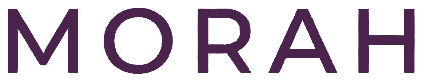
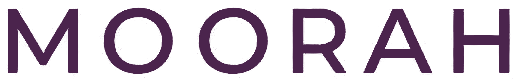
Rebranding: Morah -> Moorah em textos visíveis + novos wordmarks
- Renomeia Morah para Moorah em todos os textos visíveis ao usuário:
  login, hub, ui_kits, guidelines e componentes
- Substitui wordmarks (morah-wordmark.png e morah-wordmark-white.png)
  pelas versões com texto MOORAH fornecidas pelo cliente
- Identificadores de código, classes CSS e nomes de arquivo não alterados

diff --git a/login/index.html b/login/index.html
@@ -4,7 +4,7 @@
 <head>
 <meta charset="utf-8">
 <meta name="viewport" content="width=device-width, initial-scale=1">
-<title>Morah — Entrar</title>
+<title>Moorah — Entrar</title>
 <link rel="stylesheet" href="../styles.css">
 <script src="https://unpkg.com/lucide@latest/dist/umd/lucide.min.js"></script>
 <script src="https://cdn.jsdelivr.net/npm/amazon-cognito-identity-js@6.3.12/dist/amazon-cognito-identity.min.js"></script>
@@ -163,7 +163,7 @@
   <div class="form-col">
     <div class="brandbar">
       <img class="mark" src="../assets/morah-mark.png" alt="">
-      <img class="word" src="../assets/morah-wordmark.png" alt="Morah">
+      <img class="word" src="../assets/morah-wordmark.png" alt="Moorah">
     </div>
 
     <div class="form-body">
@@ -171,8 +171,8 @@
 
       <!-- LOGIN -->
       <section id="view-login">
-        <h1>Entrar na Morah</h1>
-        <p class="lead">Acesse seus produtos com sua conta Morah.</p>
+        <h1>Entrar na Moorah</h1>
+        <p class="lead">Acesse seus produtos com sua conta Moorah.</p>
 
         <div class="social">
           <button type="button" data-social="Google">
@@ -301,7 +301,7 @@
       </section>
     </div>
 
-    <div class="form-foot">Acesso restrito · © 2026 Morah</div>
+    <div class="form-foot">Acesso restrito · © 2026 Moorah</div>
   </div>
 
   <!-- ============ HERO ANIMADO ============ -->
@@ -316,7 +316,7 @@
         <div class="hero-cap">
           <div class="cap">Segurança do trabalho que cuida de pessoas.</div>
           <div class="cap">Avaliações, cursos e telemedicina num só lugar.</div>
-          <div class="cap">A plataforma da Morah para o seu dia a dia.</div>
+          <div class="cap">A plataforma da Moorah para o seu dia a dia.</div>
         </div>
         <p class="hero-sub">Tecnologia para quem cuida da saúde e da segurança no trabalho.</p>
         <div class="dots"><span></span><span></span><span></span></div>

diff --git a/ui_kits/tecnico/Screens.jsx b/ui_kits/tecnico/Screens.jsx
@@ -200,7 +200,7 @@ function CompararScreen() {
         </div>
       </PanelCard>
       <div style={{ textAlign: 'center', fontFamily: 'var(--font-body)', fontSize: 'var(--text-xs)', color: 'var(--text-faint)', lineHeight: 1.7 }}>
-        Relatório gerado pela plataforma Morah · Ferramenta de Indicador de Estresse<br />
+        Relatório gerado pela plataforma Moorah · Ferramenta de Indicador de Estresse<br />
         Dados anônimos e agregados — 11/06/2026 às 13:37:29
       </div>
     </div>
@@ -266,12 +266,12 @@ function TermosScreen() {
         fontFamily: 'var(--font-body)', fontSize: 'var(--text-sm)', color: 'var(--text-body)', lineHeight: 1.75,
         height: 'calc(100vh - 440px)', minHeight: 320, overflow: 'auto',
       }}>
-        <strong>TERMOS DE USO DA PLATAFORMA MORAH — LICENCIAMENTO PARA REVENDA E APLICAÇÃO</strong>
-        <p><strong>1. ACEITAÇÃO DOS TERMOS.</strong> Ao utilizar a plataforma "Morah" o USUÁRIO concorda integralmente com as condições de uso, captura e tratamento de dados psicossociais conforme a NR-1, garantindo a anonimização e agregação dos resultados.</p>
+        <strong>TERMOS DE USO DA PLATAFORMA MOORAH — LICENCIAMENTO PARA REVENDA E APLICAÇÃO</strong>
+        <p><strong>1. ACEITAÇÃO DOS TERMOS.</strong> Ao utilizar a plataforma "Moorah" o USUÁRIO concorda integralmente com as condições de uso, captura e tratamento de dados psicossociais conforme a NR-1, garantindo a anonimização e agregação dos resultados.</p>
         <p><strong>2. LICENÇA DE USO.</strong> A licença concede ao técnico de segurança do trabalho o direito de aplicar avaliações, gerar relatórios e gerenciar empresas vinculadas à sua conta, dentro do limite de avaliações contratado.</p>
         <p><strong>3. PROTEÇÃO DE DADOS (LGPD).</strong> O tratamento de dados pessoais observa a Lei nº 13.709/2018. As respostas individuais são anonimizadas na coleta e apresentadas exclusivamente de forma agregada; a plataforma não permite a identificação de respondentes nos relatórios, painéis ou exportações.</p>
         <p><strong>4. RESPONSABILIDADES DO USUÁRIO.</strong> O USUÁRIO compromete-se a aplicar os instrumentos de avaliação conforme as orientações técnicas da plataforma, a manter sigilo sobre suas credenciais de acesso e a utilizar os resultados unicamente para fins de gestão de riscos psicossociais no âmbito do PGR.</p>
-        <p><strong>5. PROPRIEDADE INTELECTUAL.</strong> Os instrumentos, metodologias de interpretação, marca e materiais de apoio disponibilizados são de titularidade da Morah, sendo vedada a reprodução ou redistribuição fora do escopo da licença contratada.</p>
+        <p><strong>5. PROPRIEDADE INTELECTUAL.</strong> Os instrumentos, metodologias de interpretação, marca e materiais de apoio disponibilizados são de titularidade da Moorah, sendo vedada a reprodução ou redistribuição fora do escopo da licença contratada.</p>
         <p><strong>6. VIGÊNCIA E RESCISÃO.</strong> Estes termos vigoram enquanto durar a relação contratual. O descumprimento das cláusulas acima autoriza a suspensão imediata do acesso, sem prejuízo das demais medidas cabíveis.</p>
         <p><strong>7. DISPOSIÇÕES GERAIS.</strong> Dúvidas sobre estes termos ou sobre o tratamento de dados podem ser encaminhadas ao encarregado de dados indicado no contrato de licenciamento.</p>
       </div>

diff --git a/hub/index.html b/hub/index.html
@@ -4,7 +4,7 @@
 <head>
 <meta charset="utf-8">
 <meta name="viewport" content="width=device-width, initial-scale=1">
-<title>Morah — Central de Produtos</title>
+<title>Moorah — Central de Produtos</title>
 <link rel="stylesheet" href="../styles.css">
 <script src="https://unpkg.com/lucide@latest/dist/umd/lucide.min.js"></script>
 <script src="https://cdn.jsdelivr.net/npm/amazon-cognito-identity-js@6.3.12/dist/amazon-cognito-identity.min.js"></script>
@@ -184,7 +184,7 @@
   <header class="topbar">
     <div class="brand">
       <img src="../assets/morah-mark-white.png" alt="" style="width:30px;height:auto">
-      <img src="../assets/morah-wordmark-white.png" alt="Morah" style="width:88px;height:auto">
+      <img src="../assets/morah-wordmark-white.png" alt="Moorah" style="width:88px;height:auto">
     </div>
     <div class="user">
       <span class="avatar" id="user-initials">··</span>
@@ -243,7 +243,7 @@
   </main>
 
   <footer class="foot">
-    <span>© 2026 Morah</span>
+    <span>© 2026 Moorah</span>
     <span>Acesso restrito a usuários autenticados</span>
   </footer>
 </div>

diff --git a/guidelines/brand-logo.card.html b/guidelines/brand-logo.card.html
@@ -19,11 +19,11 @@
 <body>
 <div class="wrap">
   <div class="panel light">
-    <img class="full" src="../assets/morah-logo-full.png" alt="Morah">
+    <img class="full" src="../assets/morah-logo-full.png" alt="Moorah">
     <div class="tag on-light">Segurança do Trabalho · NR1</div>
   </div>
   <div class="panel dark">
-    <img class="full" src="../assets/morah-logo-full-white.png" alt="Morah">
+    <img class="full" src="../assets/morah-logo-full-white.png" alt="Moorah">
     <div class="tag on-dark">Segurança do Trabalho · NR1</div>
   </div>
 </div>

diff --git a/ui_kits/tecnico/Sidebar.jsx b/ui_kits/tecnico/Sidebar.jsx
@@ -23,9 +23,9 @@ function Sidebar({ active, onNavigate }) {
       {/* Brand — both lockups rendered; base.css shows one per theme */}
       <div style={{ display: 'flex', alignItems: 'center', gap: 10, padding: '22px 20px 20px' }}>
         <img className="morah-logo-light" src="../../assets/morah-mark.png" alt="" style={{ width: 30, height: 'auto' }} />
-        <img className="morah-logo-light" src="../../assets/morah-wordmark.png" alt="Morah" style={{ width: 86, height: 'auto' }} />
+        <img className="morah-logo-light" src="../../assets/morah-wordmark.png" alt="Moorah" style={{ width: 86, height: 'auto' }} />
         <img className="morah-logo-dark" src="../../assets/morah-mark-white.png" alt="" style={{ width: 30, height: 'auto' }} />
-        <img className="morah-logo-dark" src="../../assets/morah-wordmark-white.png" alt="Morah" style={{ width: 86, height: 'auto' }} />
+        <img className="morah-logo-dark" src="../../assets/morah-wordmark-white.png" alt="Moorah" style={{ width: 86, height: 'auto' }} />
       </div>
 
       {/* Nav */}

diff --git a/components/core/core.card.html b/components/core/core.card.html
@@ -46,7 +46,7 @@
         </div>
         <div className="row"><span className="lbl">Avatars</span>
           <Avatar name="Lucas C. Pedrosa Marques" size={44} />
-          <Avatar name="Morah Sistema" tone="leaf" size={44} />
+          <Avatar name="Moorah Sistema" tone="leaf" size={44} />
           <Avatar name="DG Sports" tone="dark" size={44} />
         </div>
       </div>

diff --git a/guidelines/type-scale.card.html b/guidelines/type-scale.card.html
@@ -9,7 +9,7 @@
   .mono{margin-top:14px;padding-top:14px;border-top:1px solid var(--border-subtle);font-family:var(--font-mono);font-size:15px;color:var(--berry-700);font-weight:500}
 </style></head>
 <body>
-<div class="item"><span class="tok">--text-5xl 48</span><span class="smp" style="font-size:32px">Morah</span></div>
+<div class="item"><span class="tok">--text-5xl 48</span><span class="smp" style="font-size:32px">Moorah</span></div>
 <div class="item"><span class="tok">--text-3xl 30</span><span class="smp" style="font-size:26px">Empresas Cadastradas</span></div>
 <div class="item"><span class="tok">--text-xl 20</span><span class="smp" style="font-size:20px">Histórico de Avaliações</span></div>
 <div class="item"><span class="tok">--text-base 14</span><span class="smp" style="font-size:14px;font-weight:500;font-family:var(--font-body)">Selecione uma empresa no dropdown acima</span></div>

diff --git a/index.html b/index.html
@@ -3,7 +3,7 @@
 <head>
 <meta charset="utf-8">
 <meta http-equiv="refresh" content="0; url=./login/index.html">
-<title>Morah</title>
+<title>Moorah</title>
 <script>location.replace('./login/index.html');</script>
 </head>
 <body></body>

diff --git a/ui_kits/tecnico/index.html b/ui_kits/tecnico/index.html
@@ -5,7 +5,7 @@
 <head>
 <meta charset="utf-8">
 <meta name="viewport" content="width=device-width, initial-scale=1">
-<title>Morah — Painel do Técnico</title>
+<title>Moorah — Painel do Técnico</title>
 <link rel="stylesheet" href="../../styles.css">
 <script src="https://unpkg.com/react@18.3.1/umd/react.development.js" integrity="sha384-hD6/rw4ppMLGNu3tX5cjIb+uRZ7UkRJ6BPkLpg4hAu/6onKUg4lLsHAs9EBPT82L" crossorigin="anonymous"></script>
 <script src="https://unpkg.com/react-dom@18.3.1/umd/react-dom.development.js" integrity="sha384-u6aeetuaXnQ38mYT8rp6sbXaQe3NL9t+IBXmnYxwkUI2Hw4bsp2Wvmx4yRQF1uAm" crossorigin="anonymous"></script>